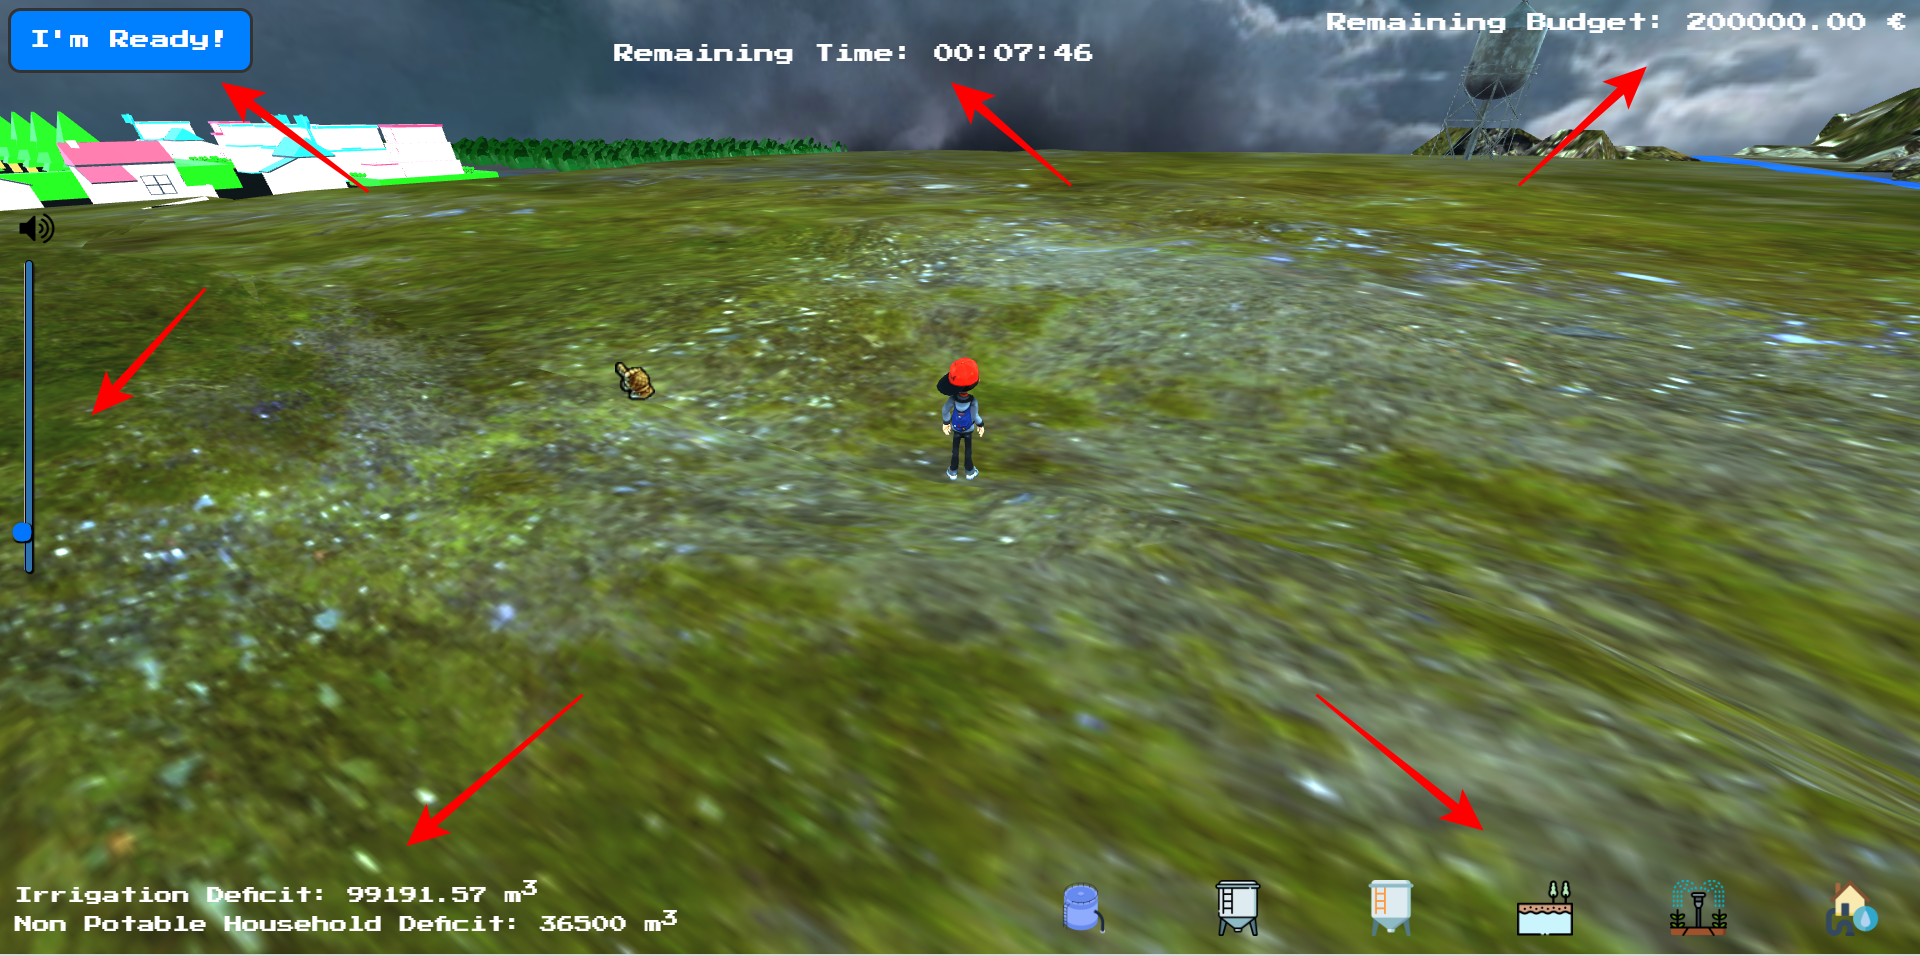
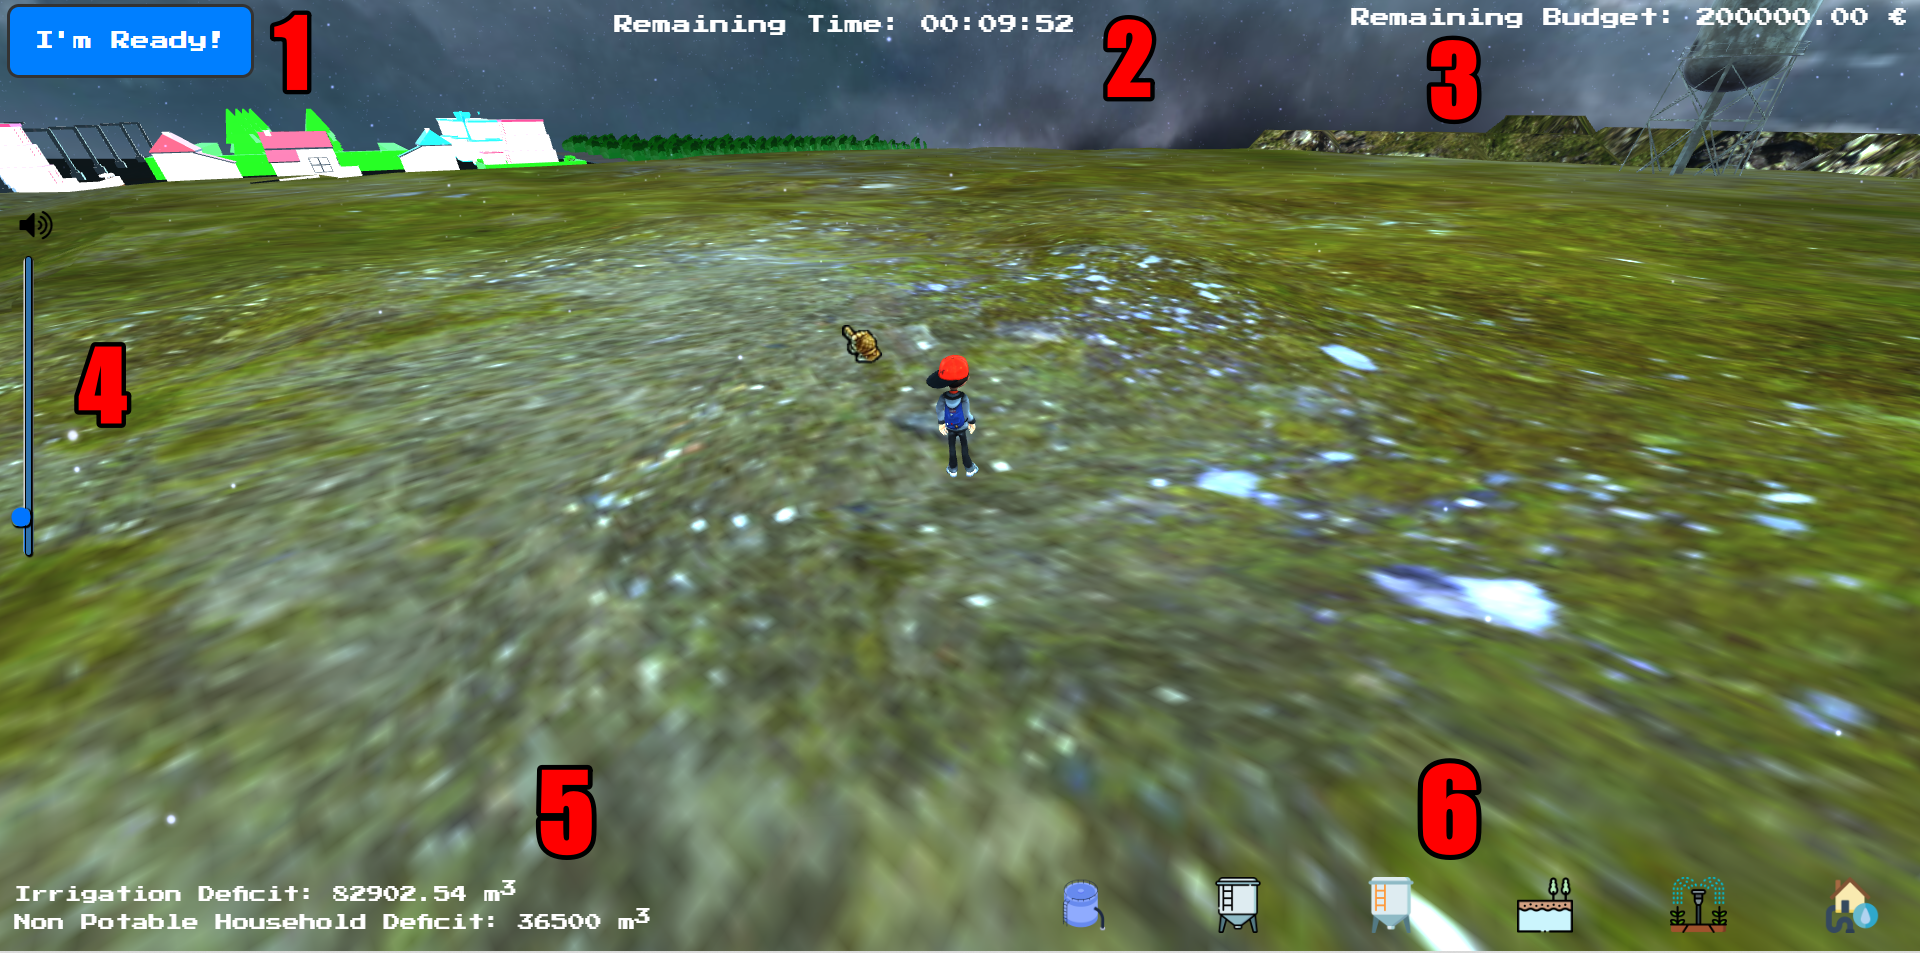
new commit

diff --git a/templates/index.html b/templates/index.html
@@ -61,19 +61,19 @@
                <img src="../static/models/difficulty_menu.png" alt="Difficulty Menu" style="max-width:90%; height:auto;" id="controls-submenu-1-img">
           </div>
           <div class="controls-submenu-2">
-               <p id="controls-submenu-2-text"> &#8226; <u><b>Movement:</b></u> Use your right mouse click to move &#8226; <u><b>Top-Left:</b></u> Click to see the final results once you're confident the demands are met &#8226; <u><b>Top-Middle:</b></u> Remaining time to design the system &#8226; <u><b>Top-Right:</b></u> The decisions you make to design the system have a respective construction and operating cost &#8226; <u><b>Middle-Left:</b></u> Volume Controller
-               &#8226;<u><b>Bottom-Left:</b></u> Information about the remaining deficits, updating dynamically whenever a decision is made &#8226; <u><b>Bottom-Right:</b></u> Useful graphs, updating dynamically as well </p>
+               <p id="controls-submenu-2-text">&#8226; <b>Movement:</b> Use your right mouse click <br> &#8226; <b>1:</b> Click to see the final results once you're confident the demands are met <br> &#8226; <b>2:</b> Remaining time to design the system <br> &#8226; <b>3:</b> The decisions you make to design the system have a respective construction and operating cost
+               <br> &#8226; <b>4:</b> Volume Controller <br> &#8226; <b>5:</b> Information about the remaining deficits, updating dynamically whenever a decision is made <br> &#8226; <b>6:</b> Useful graphs, updating dynamically whenever a decision is made </p>
                <img src="../static/models/interface.png" alt="Difficulty Menu" style="max-width:45%; height:auto;" id="controls-submenu-2-img">
           </div>
           <div class="controls-submenu-3">
-               <p id="controls-submenu-3-text">To make your decisions and design the system, you have to find and open three hidden menus. Each menu opens when you approach and left click a respective city component. <br> <u><b>Clue:</b></u> The city components look like this: </p>
+               <p id="controls-submenu-3-text">To make your decisions and design the system, you have to find and open three hidden menus. Each menu opens whenever you approach and left click a respective city component. <br> <b>Clue:</b> The aforementioned city components look like this: </p>
                <img src="../static/models/houses2.PNG" alt="Houses" id="controls-submenu-3-img-1" style="max-width:22%; height:auto;">
                <img src="../static/models/crops.PNG" alt="Crops" id="controls-submenu-3-img-2" style="max-width:22%; height:auto;">
                <img src="../static/models/water_tower.PNG" alt="Water Tower" id="controls-submenu-3-img-3" style="max-width:25%; height:auto;">
 
           </div>
           <div class="controls-submenu-4">
-               <p id="controls-submenu-4-text">This is a hidden menu. Use the sliders to design the system the way you want. You can request additional information on each slider by hovering the respective icons with your mouse.</p>
+               <p id="controls-submenu-4-text">This is a hidden menu. Use the sliders to design the system the way you want. You can request more information on each slider by hovering the respective icons with your mouse.</p>
                <img src="../static/models/hidden_menus.png" alt="Houses" id="controls-submenu-4-img" style="max-width:55%; height:auto;">
           </div>
 
